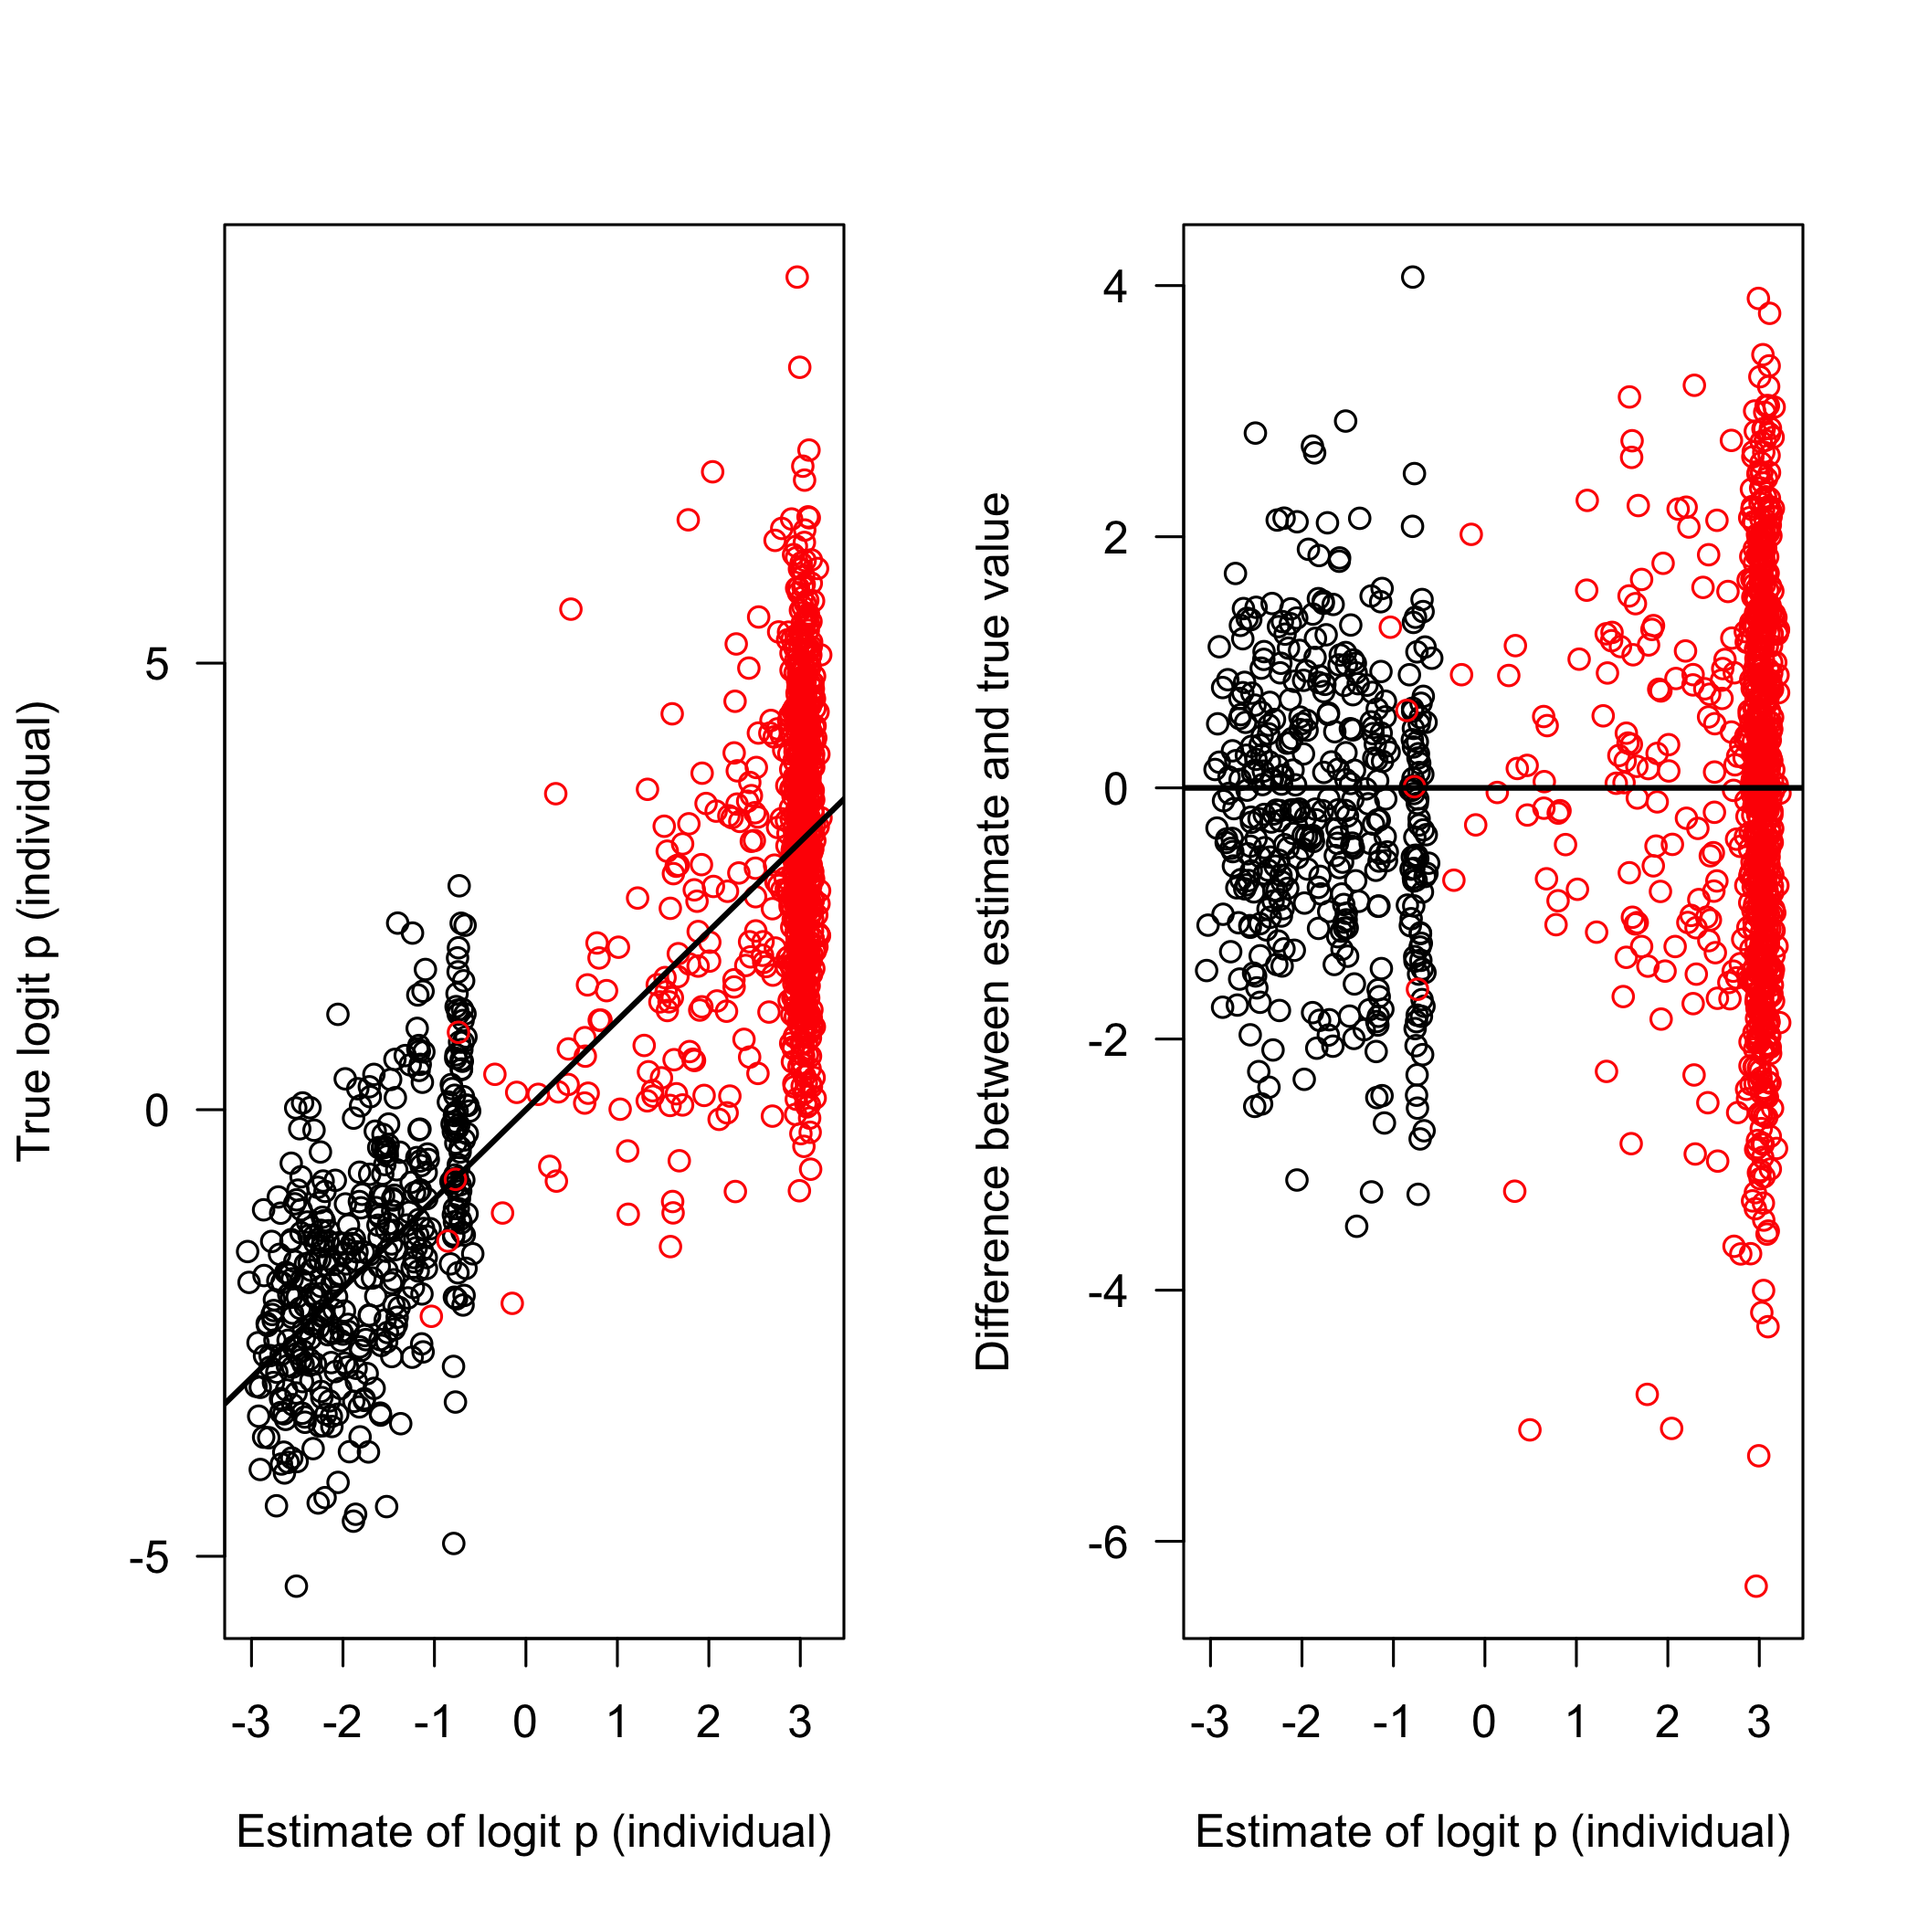
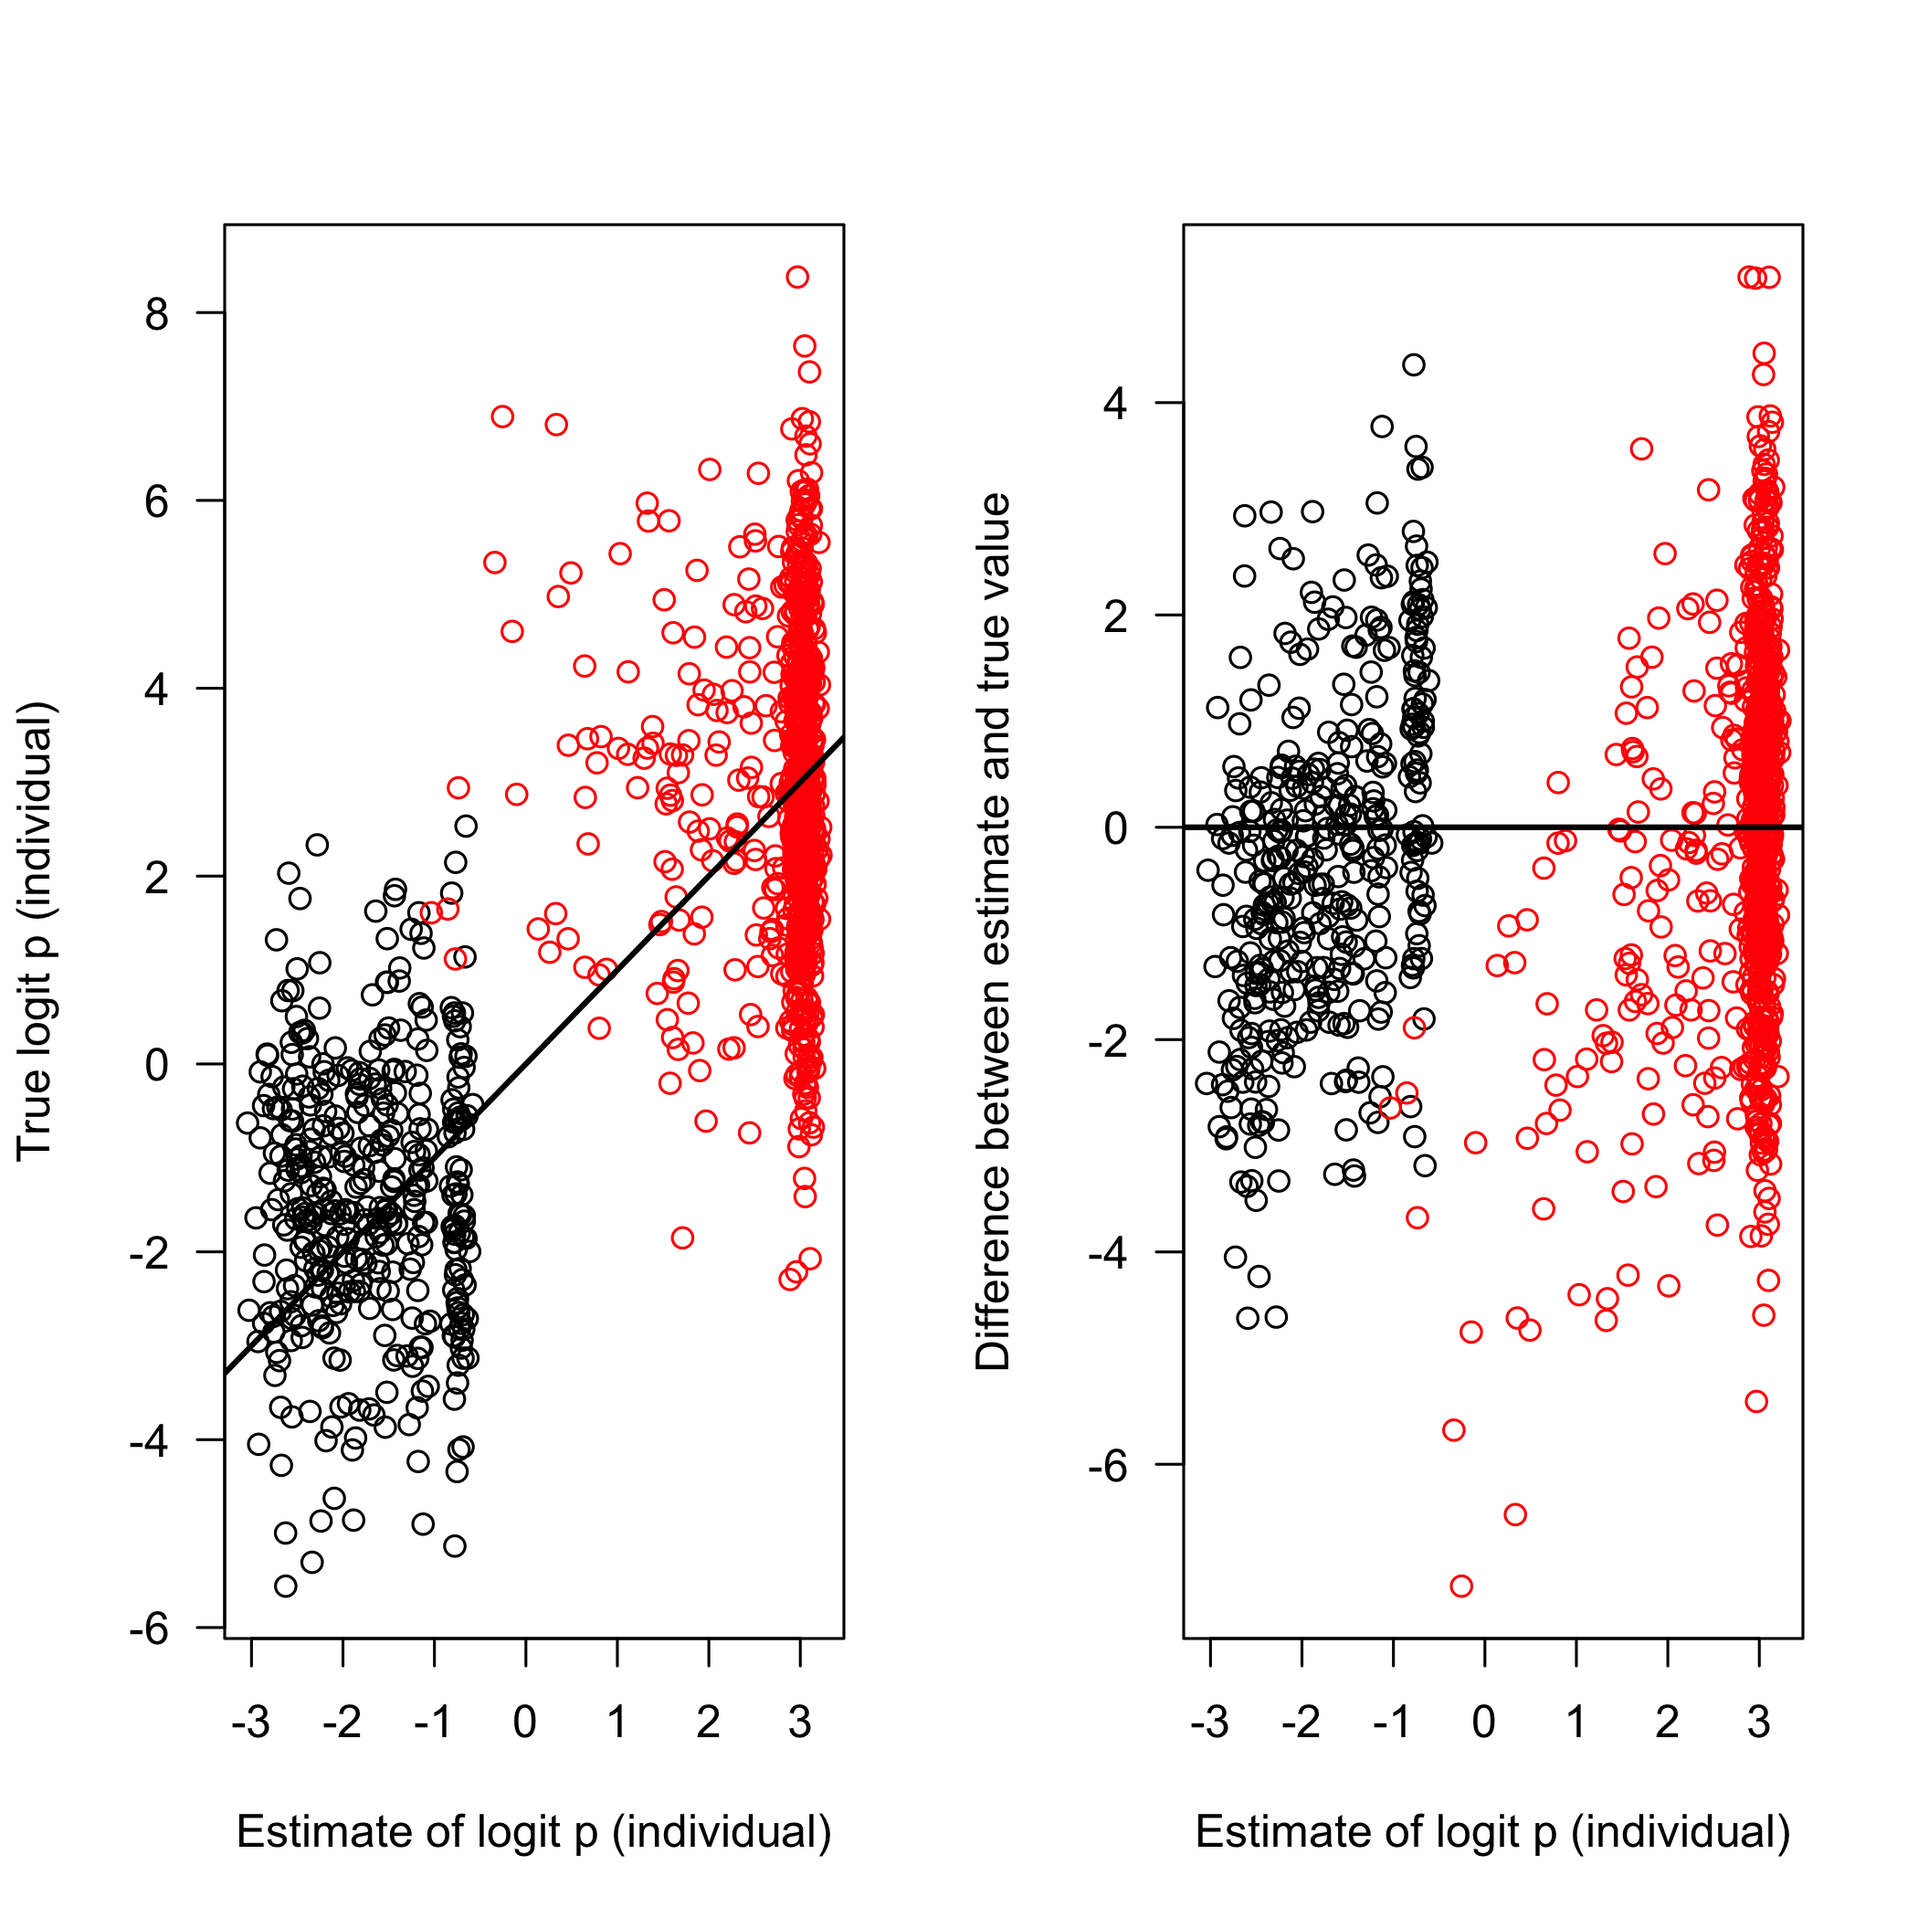
update README and timing model summary figure

diff --git a/README.md b/README.md
@@ -2,26 +2,30 @@
 
 ## Overview of software 
 
-This repository has all the necessary code and data to reproduce results from **Estimating the probable cause of recurrence in Plasmodium vivax malaria: relapse, reinfection or recrudescence?** Taylor *et al*, 2018. 
+This repository has all the necessary code and data to reproduce results from **Estimating the probable cause of recurrence in Plasmodium vivax malaria: relapse, reinfection or recrudescence?** Taylor, Watson, *et al*, 2018. 
 
 The full paper (preprint for the moment) can be found at: 
 https://www.biorxiv.org/content/early/2018/12/25/505594
 
-* *Genetic_Model* has the model code implementing our identity by descent approach to the estimation of relapse, recrudescence and reinfection in *P. vivax* recurrences, based on highly polymorphic microsatellite data. 
+The data analysis is broken down into a series of R scripts and RMarkdown files, organised as follows:
 
-* *Timing_Model* has the model code (in *stan*) implementing our time-to-event approach to the estimation of relapse, recrudescence and reinfection in *P. vivax* recurrences, based on follow-up data post clinic level symptomatic *P. vivax* episodes. The RMarkdown script *TimingModelStan.Rmd* fits the models to pooled data from two large studies on the Thailand-Myanmar border (total *n=1299* individuals, over 1000 patient years of follow-up).
+* *Genetic_Model* has the model code implementing our identity-by-descent based approach to the estimation of relapse, recrudescence and reinfection in *P. vivax* recurrences, based on highly polymorphic microsatellite data. The main wrapper function which computes recurrence state probabilities is *post_prob_CLI* in *post_prob_CLI.R*. There is also a useful plotting function for polyallelic data (*PlottingFunction.R*).
 
-* *Pooled_Final_Analysis* provides an RMarkdown script *Pooled_Analysis.Rmd* which combines the genetic model fits and then timing model fits on the same data from the two large studies on the Thailand-Myanmar border (total *n=1299* individuals). In particular it implements the following:
+* *Timing_Model* has the model code (in *stan*) implementing our time-to-event approach to the estimation of relapse, recrudescence and reinfection in *P. vivax* recurrences, based on follow-up data post clinic level symptomatic *P. vivax* episodes. The RMarkdown script *TimingModelStan.Rmd* fits the stan models to pooled data from two large studies on the Thailand-Myanmar border (total *n=1299* individuals, over 1000 patient years of follow-up).
+
+* *Pooled_Final_Analysis* provides an RMarkdown script *Pooled_Analysis.Rmd* which combines the genetic model fits and the timing model fits on the same data from the two large studies on the Thailand-Myanmar border (total *n=1299* individuals). In particular it implements the following:
     1. Full Bayesian analysis of all recurrences, and where available, estimates using the genetic data are based on prior probabilities from the time-to-event model
     2. Estimation of false-positive rate using genetic data alone by comparing isolates from different individuals
     3. Estimation of failure rate after supervised high-dose primaquine in the epidemiological context of the Thai-Myanmar border
     4. Prediction of primaquine failure from carboxy-primaquine (inactive, slowly eliminated metabolite) trough concentrations
 
-* *Simulation_Study* estimates the number of microsatellites needed to reliably calculate recurrence probabilities in paired infections under certain assumptions of complexity of infection. This is in the RMarkdown script *SimulationStudy.Rmd*.
+* *Simulation_Study* provides two separate model validation, simulation-based studies for the genetic and time-to-event models, respectively. 
+    1. *SimulationStudy_Genetic_Model.Rmd* estimates the number of microsatellites needed to reliably calculate recurrence probabilities in paired infections under certain assumptions of complexity of infection.
+    2. *SimulationStudy_Timing_Model.Rmd* simulates data under the assumptions of the two time-to-event model and then fits the models to these data (well-specified problems). It also simulates and fits model 2 to data whereby reinfections are seasonal (mis-specified). It performs posterior model checks: simulates data from the posterior distribution and compares against observed, both visually and with summary statistics.
 
 All data are stored in *RData* and a microsatellite data plotting tool is given in *Genetic_Model/PlottingFunction.R*.
 
-Enjoy reading through the model code and model implementation! If you see any bugs or have any questions, the authors can be contacted at jwatowatson@gmail.com and aimee.r.taylor.85@gmail.com. For general questions regarding R, please visit https://www.r-project.org/ and various resources online. In you are unfamiliar with, access to someone with a working knowledge of R will be helpful.
+Enjoy reading through the model code and model implementation! If you see any bugs or have any questions, the authors can be contacted at jwatowatson@gmail.com and aimee.r.taylor.85@gmail.com. For general questions regarding R, please visit https://www.r-project.org/ and various resources online. In you are unfamiliar with R, then access to someone with a working knowledge of R will be helpful.
   
 ## Installation 
 
@@ -72,7 +76,7 @@ The output of the RMarkdown scripts is as follows:
 
 To regenerate everything from scratch, including all intermediate files, set *RUN_MODELS___* variables to TRUE in all RMarkdown scripts, then run TimingModelStan.Rmd followed by the other RMarkdown scripts in no specific order. The output is as described above plus model output. 
 
-
+This is still work in progress as we will be updating the model and improving the workflow (even after publication). If there is a bug on the current github version just drop us an email with a screen shot.
 
 
 

diff --git a/Simulation_Study/SimulationStudy_Timing_Model.md b/Simulation_Study/SimulationStudy_Timing_Model.md
@@ -124,10 +124,14 @@ Generate simulated data under the assumptions of model 2
 ```
 ##                
 ##                  AS CHQ CHQ/PMQ
-##   EarlyRelapse  360 337      80
-##   LateRelapse   352 317      87
-##   Recrudescence   5   5       4
-##   Reinfection   140 123     942
+##   EarlyRelapse  358 279     107
+##   LateRelapse   358 272      84
+##   Recrudescence   4   4       2
+##   Reinfection   148 143     960
+```
+
+```
+## The proportion of reinfections in the PMQ+ arm is 83.3%
 ```
 
 Prior specification for stan fit:
@@ -148,7 +152,7 @@ Plot output, comparing prior, ground truth and model estimate:
 Compare summary statistics from simulated data and estimated:
 
 ```
-## The true failure rate in the simulated data is 15.4%. Model 2 estimates the failure rate to be 15.7% (95% CI: 6.7-28.2)
+## The percentage of reinfections in the PMQ+ arm in the simulated data is 16.7%. Model 2 estimates this percentage to be 18.4% (95% CI: 9.1-30.7)
 ```
 
 
@@ -171,7 +175,7 @@ Generate patient data under the assumptions of model 1 with the additional assum
 Generate data with these parameters:
 
 ```
-## 0.835 sec elapsed
+## 0.971 sec elapsed
 ```
 
 
